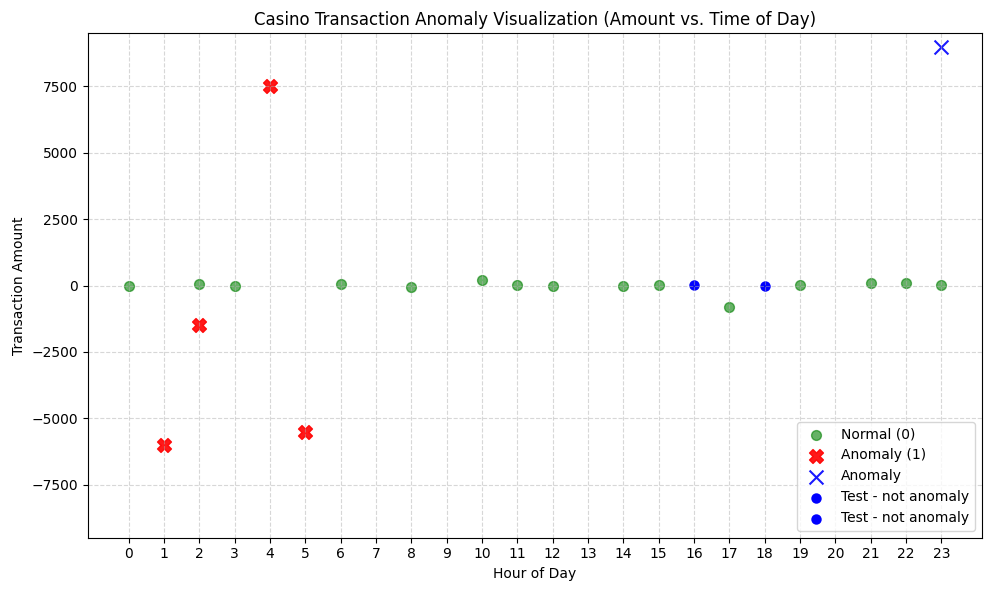
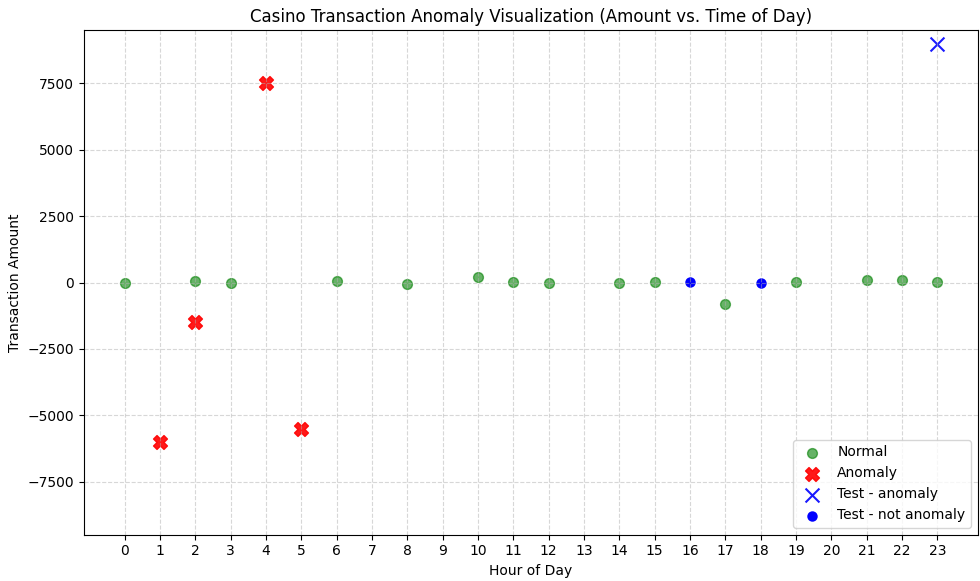
supervised algorithm for anomaly detection

diff --git a/src/ai-model/supervised/app.py b/src/ai-model/supervised/app.py
@@ -90,7 +90,7 @@ plt.scatter(
     normal['hour_of_day'], 
     normal['amount'], 
     color='green', 
-    label='Normal (0)', 
+    label='Normal', 
     alpha=0.6,
     s=50
 )
@@ -99,33 +99,34 @@ plt.scatter(
     anomaly['hour_of_day'], 
     anomaly['amount'], 
     color='red', 
-    label='Anomaly (1)', 
+    label='Anomaly', 
     alpha=0.9,
     marker='X',
     s=100
 )
 
-for i, row in df_new_test.iterrows():
-    if row['predicted_anomaly'] == 1:
-        plt.scatter(
-            row['hour_of_day'], 
-            row['amount'], 
-            color='blue', 
-            marker='x',
-            s=100,            
-            alpha=0.9,
-            linewidth=1.5,
-            label='Anomaly'
-        )
-for i, row in df_new_test.iterrows():
-    if row['predicted_anomaly'] == 0:
-        plt.scatter(
-            row['hour_of_day'], 
-            row['amount'], 
-            color='blue', 
-            linewidth=1.5,
-            label="Test - not anomaly"
-        )
+normal = df_new_test[df_new_test['predicted_anomaly'] == 0]
+anomaly = df_new_test[df_new_test['predicted_anomaly'] == 1]
+
+
+plt.scatter(
+    anomaly['hour_of_day'], 
+    anomaly['amount'], 
+    color='blue', 
+    marker='x',
+    s=100,            
+    alpha=0.9,
+    linewidth=1.5,
+    label='Test - anomaly'
+)
+
+plt.scatter(
+    normal['hour_of_day'], 
+    normal['amount'], 
+    color='blue', 
+    linewidth=1.5,
+    label="Test - not anomaly"
+)
 
 plt.title('Casino Transaction Anomaly Visualization (Amount vs. Time of Day)')
 plt.xlabel('Hour of Day')
